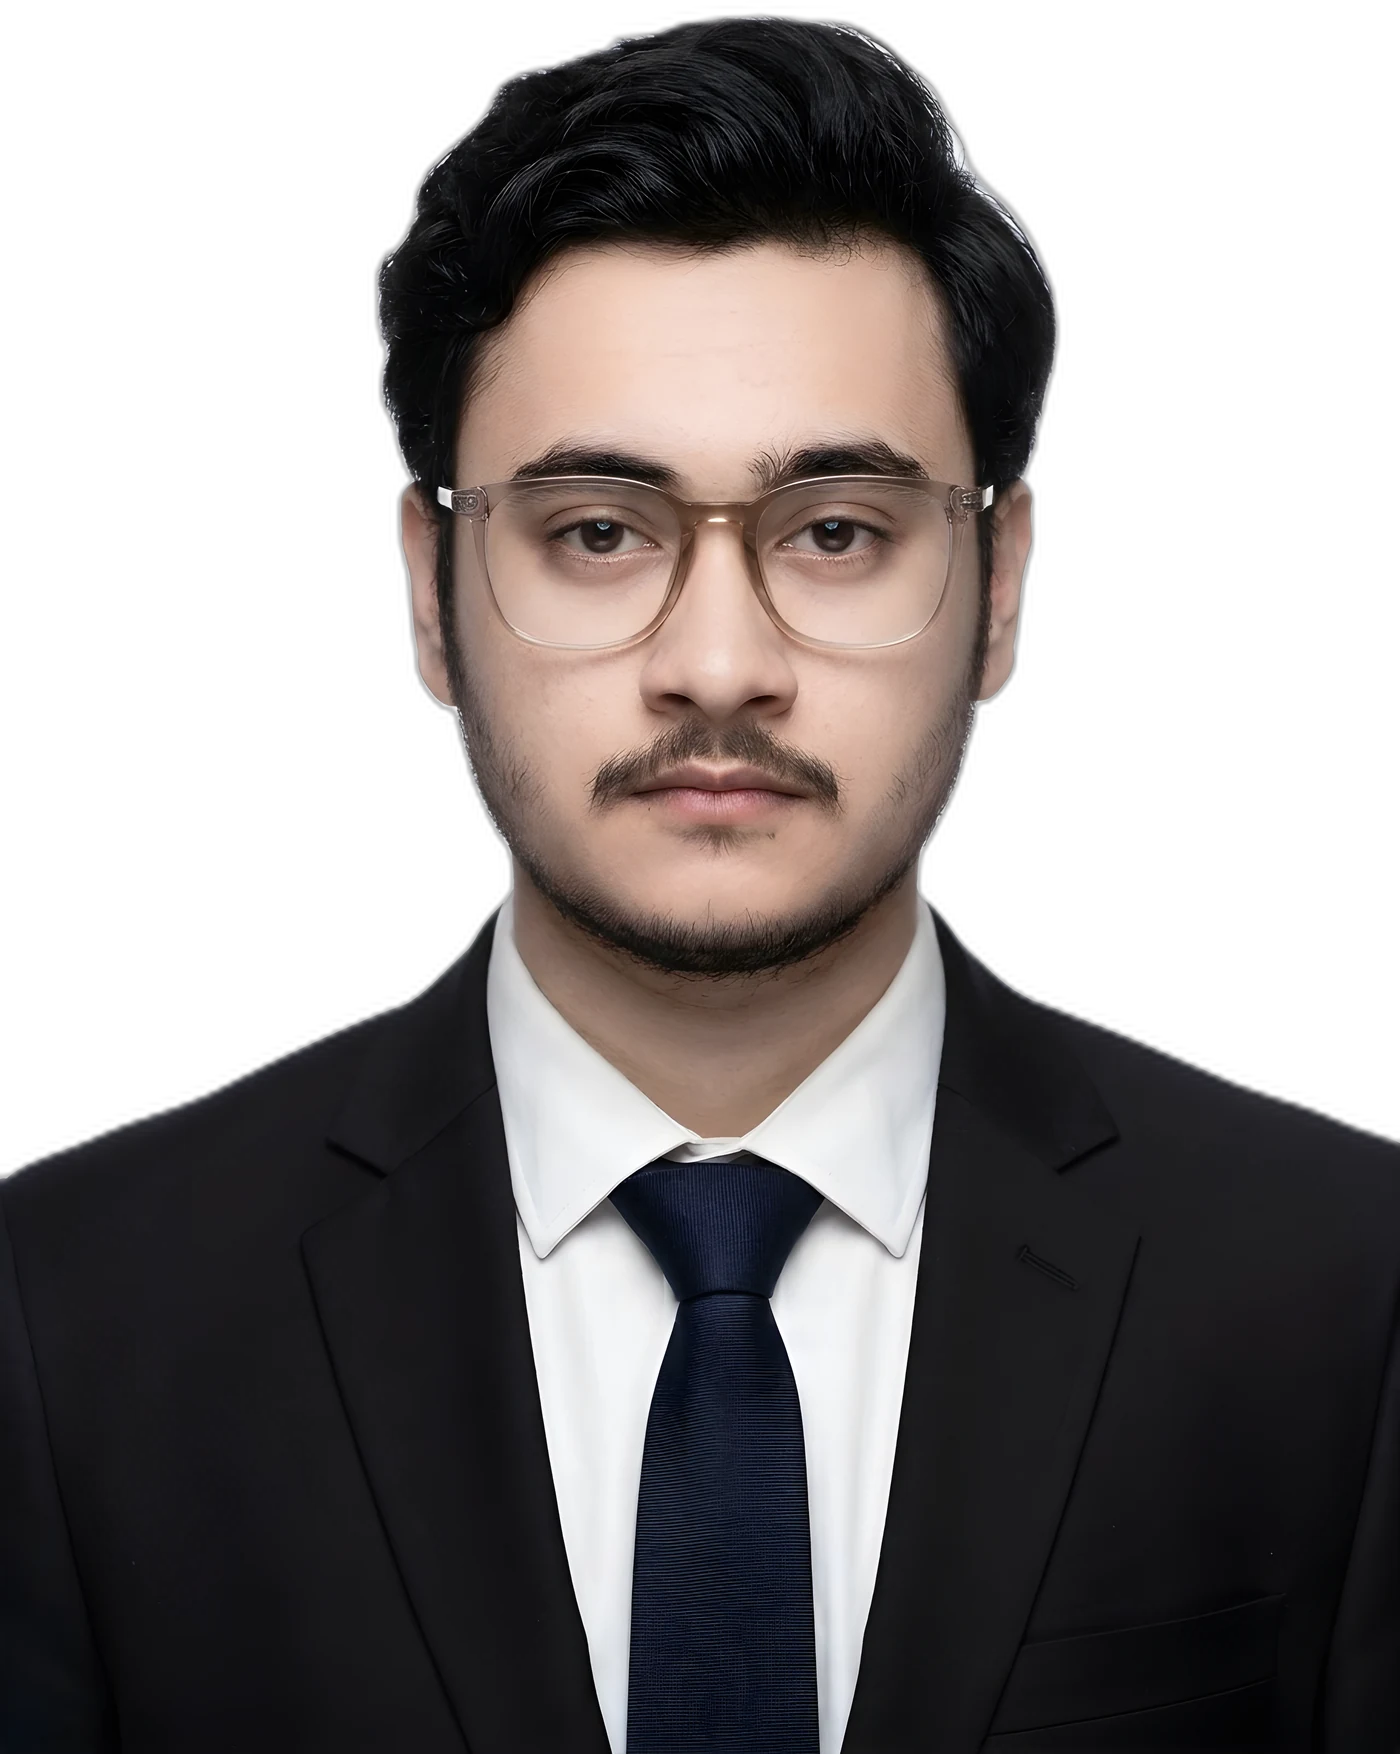
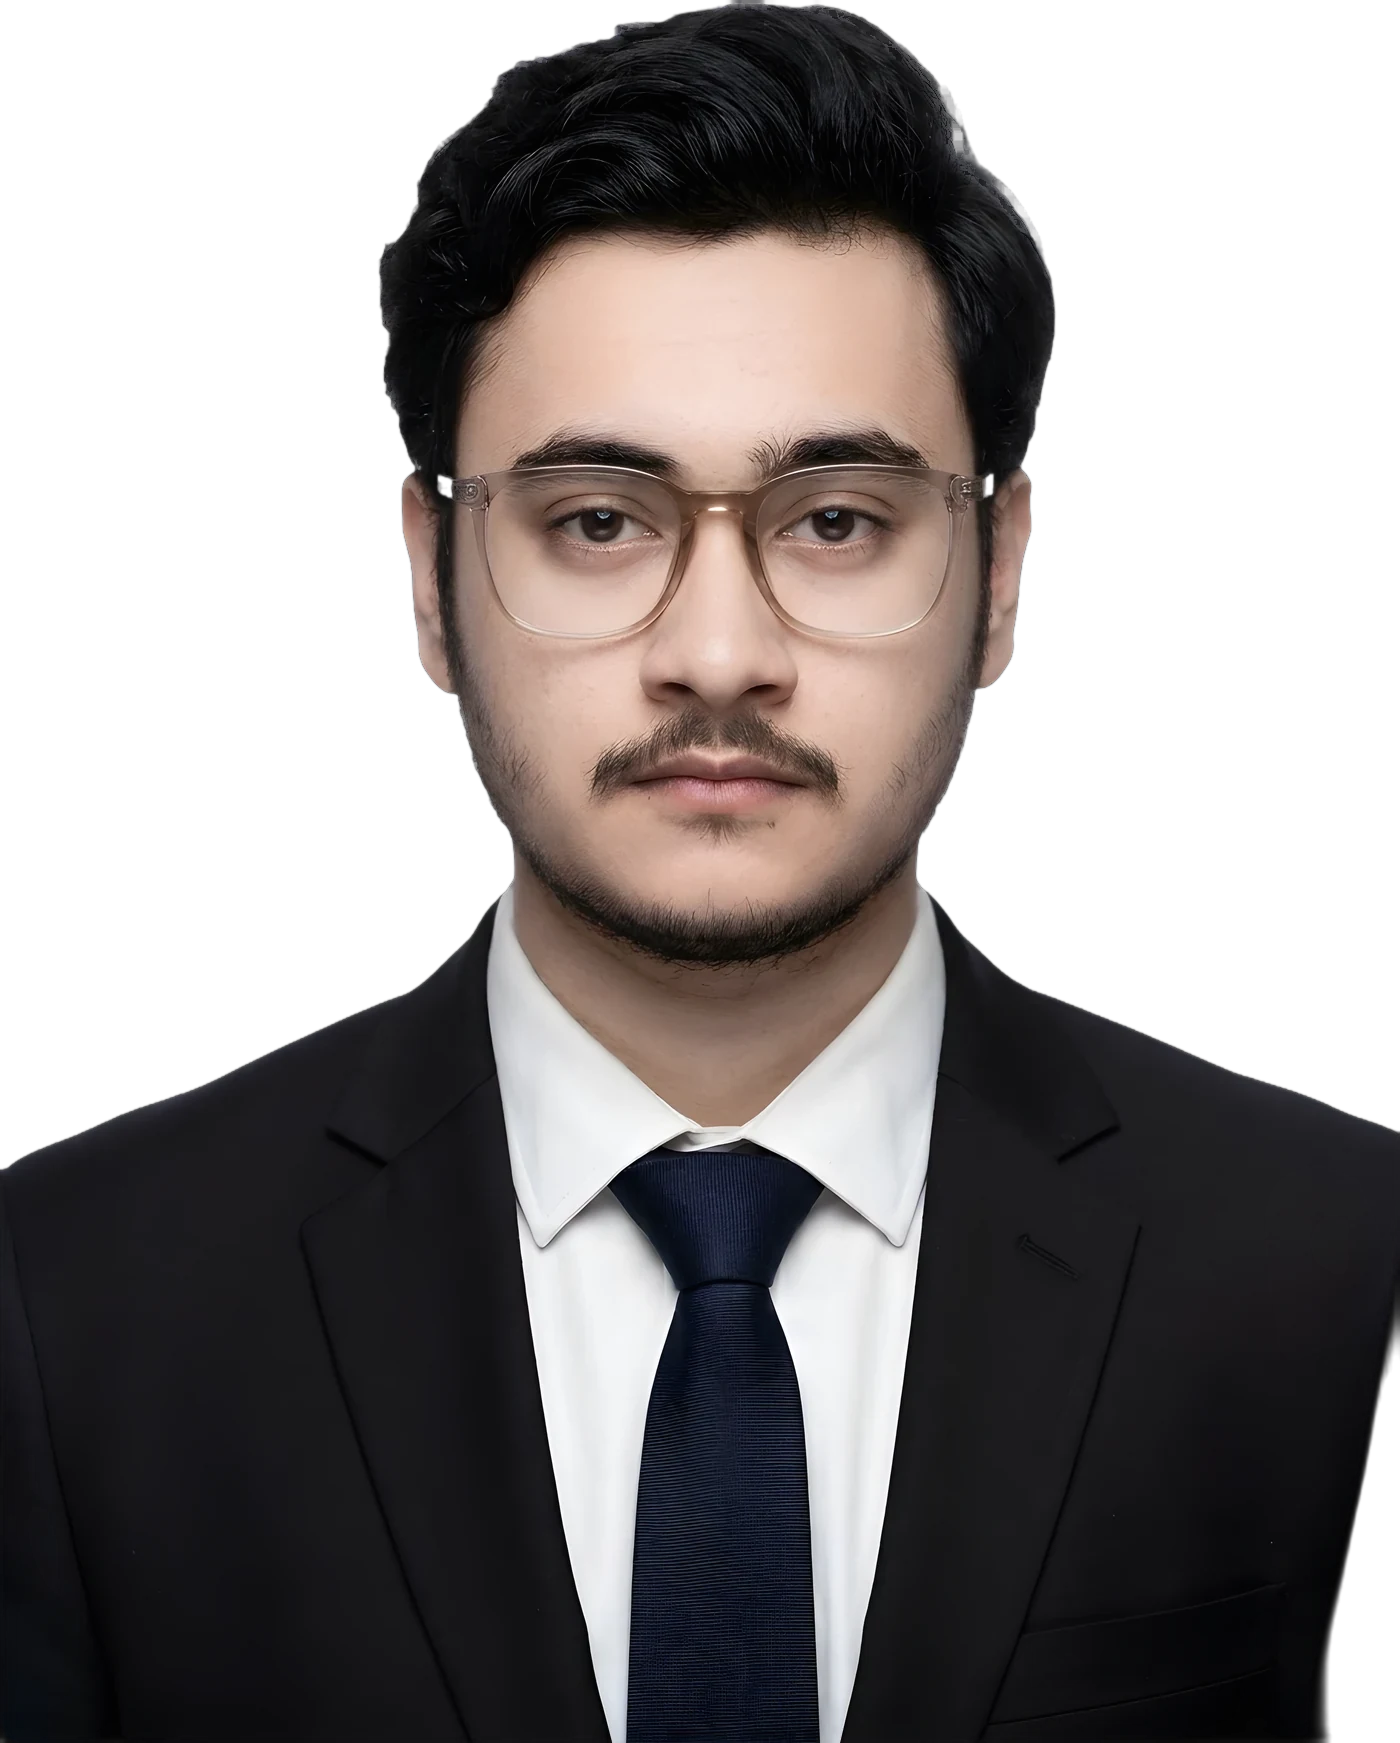
Clean portrait cut-out: remove white fringe, smooth outline
Claude-Session: https://claude.ai/code/session_01Mn321qBMHsHauRmTjSpb19

diff --git a/index.html b/index.html
@@ -13,7 +13,7 @@
   <link rel="preconnect" href="https://fonts.googleapis.com" />
   <link rel="preconnect" href="https://fonts.gstatic.com" crossorigin />
   <link href="https://fonts.googleapis.com/css2?family=Anton&family=Caveat:wght@600&family=Inter:ital,wght@0,400;0,500;0,600;0,700;1,600;1,800&family=JetBrains+Mono:wght@500&display=swap" rel="stylesheet" />
-  <link rel="stylesheet" href="style.css?v=202611211827" />
+  <link rel="stylesheet" href="style.css?v=202611211833" />
   <script>
     if (!matchMedia("(prefers-reduced-motion: reduce)").matches) document.documentElement.classList.add("anim");
   </script>
@@ -42,7 +42,7 @@
       <p class="hero-chip" data-build><span class="pulse"></span>Available for new roles</p>
       <div class="hero-stage">
         <div class="giant" data-build aria-hidden="true">PORTFOLIO</div>
-        <img class="portrait" data-build alt="Portrait of Salfi Bhuiyan" width="1400" height="1754" />
+        <img class="portrait" data-build alt="Portrait of Salfi Bhuiyan" width="1400" height="1743" />
       </div>
       <div class="hero-intro">
         <p class="greet" data-build></p>
@@ -168,7 +168,7 @@
   <div class="builder" aria-hidden="true"></div>
   <div class="status" aria-hidden="true"><span class="s-dots"><i></i><i></i><i></i><i></i><i></i></span><span class="s-text"></span><span class="s-badge">LIVE</span></div>
 
-  <script src="content.js?v=202611211827"></script>
-  <script src="script.js?v=202611211827"></script>
+  <script src="content.js?v=202611211833"></script>
+  <script src="script.js?v=202611211833"></script>
 </body>
 </html>
